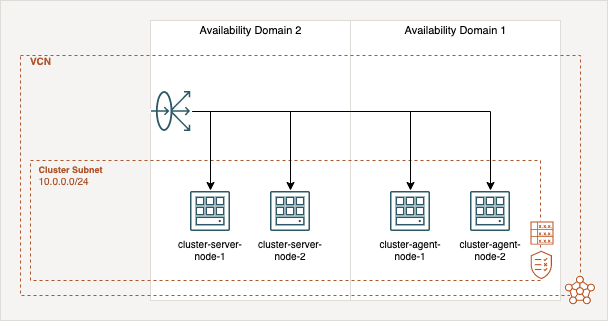
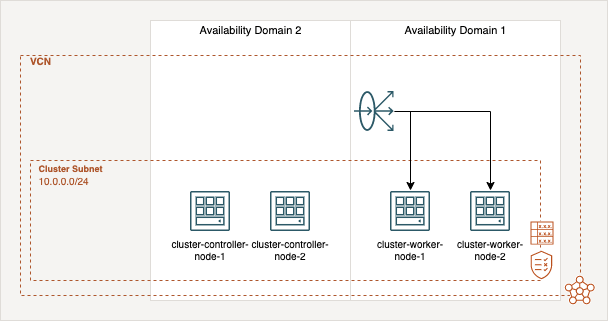
update diagram and Readme

diff --git a/README.md b/README.md
@@ -1,6 +1,6 @@
 # Free k0s Cluster on the Oracle Cloud Infrastructure
 
-The motivation of this project is to provide a [k0s](https://k0sproject.io/) cluster with four nodes fully automatically, which is composed only of always free infrastructure resources. The deployment will be done Terraform and the user-data scripts which installs K0s automatically and build up the cluster.
+The motivation of this project is to provide a [k0s](https://k0sproject.io/) cluster with four nodes fully automatically, which is composed only of always free infrastructure resources. The deployment will be done Terraform and the user-data scripts which installs k0s automatically and build up the cluster.
 
 ## Architecture
 The cluster infrastructure based on four nodes, two server- and two agent-nodes for your workload. A load balancer which is distributes the traffic to your nodes on port 443. The server-nodes are at the availability domain 2 (AD-2) and the agent node are created in AD-1. The cluster use the storage solution [Longhorn](https://longhorn.io), which will use the block storages of the OCI instances and shares the Kubernetes volumes between them. The following diagram give an overview of the infrastructure.
@@ -57,7 +57,7 @@ Finally, you have to deploy [Longhorn](https://longhorn.io) the distributed bloc
 
 Method 1 by ```kubectl```:
 ```
-kubectl apply -f https://raw.githubusercontent.com/longhorn/longhorn/v1.2.3/deploy/longhorn.yaml
+kubectl apply -f https://raw.githubusercontent.com/longhorn/longhorn/v1.2.4/deploy/longhorn.yaml
 ```
 
 Method 2 by ```helm```:
